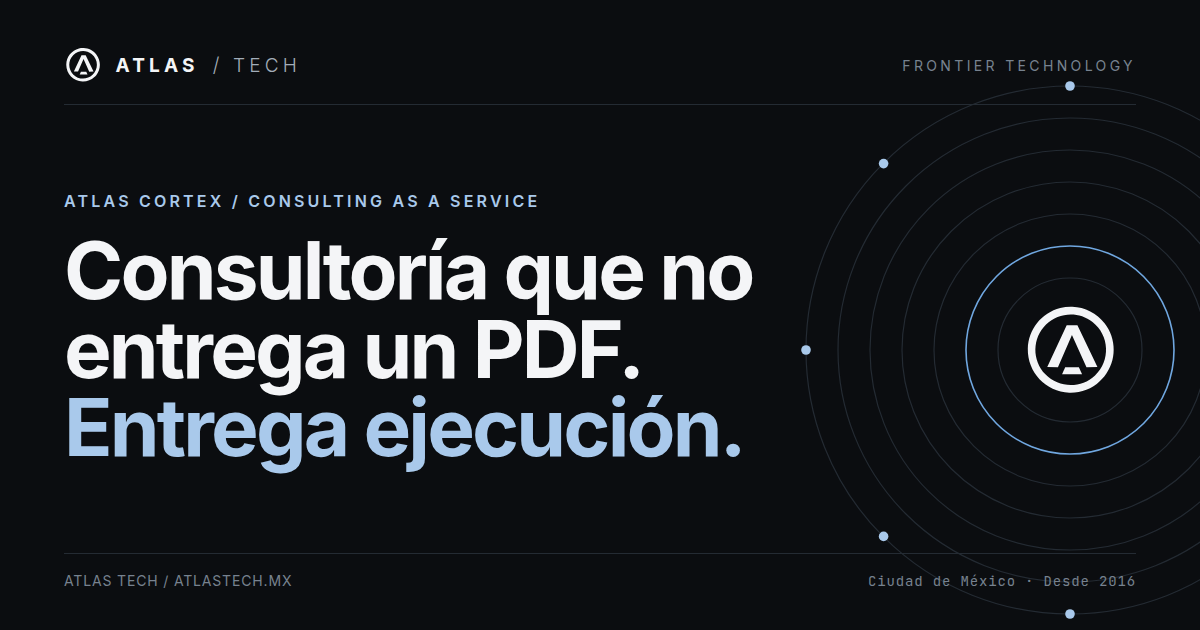
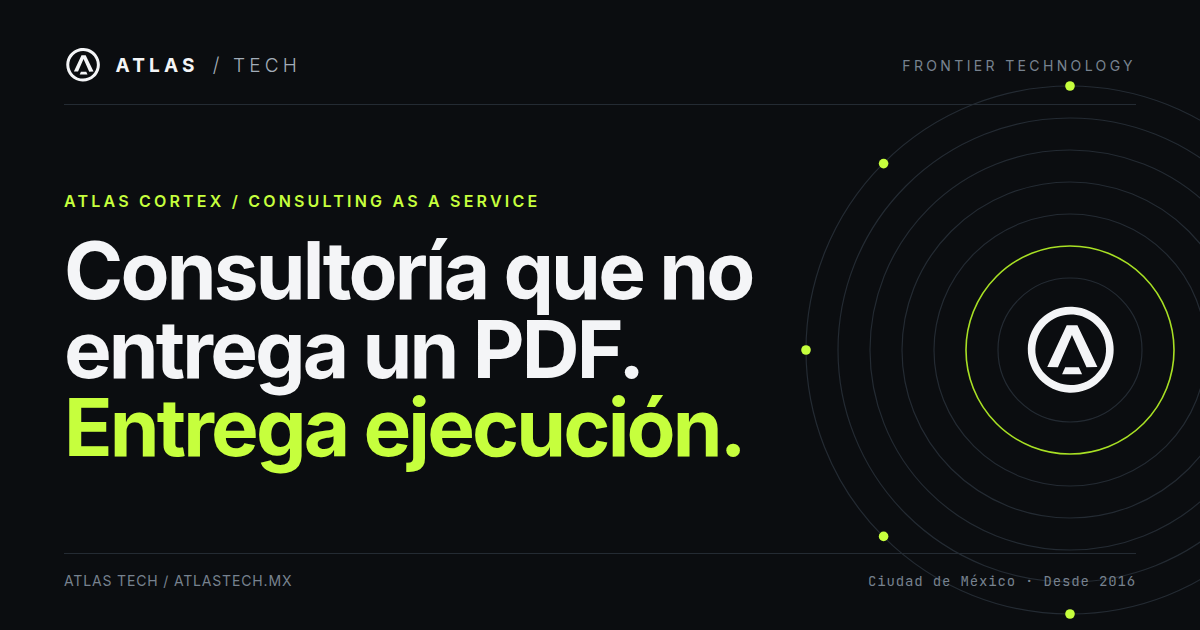
feat(brand): acento verde lima en lugar del azul hielo
Preferencia del dueño. Se conserva el resto de Atlas Noir (radio 0,
lockup, Inter 700, órbita). Imagen de vista previa regenerada.

Claude-Session: https://claude.ai/code/session_012jUjWb9yZdgB8nafPshS6D

diff --git a/atlasws/src/site/brand.test.ts b/atlasws/src/site/brand.test.ts
@@ -37,7 +37,7 @@ const siteSources = walk(path.join(root, "src/site"))
   .filter((f) => /\.(css|tsx|ts)$/.test(f) && !/\.test\./.test(f))
   .map((f) => [f, fs.readFileSync(f, "utf8")] as const);
 
-test("tokens de Atlas Noir: void, hielo como único acento y grises pizarra", () => {
+test("tokens de Atlas Noir con acento verde lima (preferencia del dueño sobre el azul hielo)", () => {
   const t = read("src/site/tokens.css").toLowerCase();
   [
     "--bg: #0b0d10",
@@ -47,21 +47,20 @@ test("tokens de Atlas Noir: void, hielo como único acento y grises pizarra", ()
     "--ink: #f4f5f7",
     "--muted: #a3adb9",
     "--dim: #77828f",
-    "--accent: #a9c9eb",
-    "--accent-2: #70a7e0",
+    "--accent: #c6ff3d",
+    "--accent-2: #a8e024",
     "--on-accent: #0b0d10",
     "--signal: #8fd9b6",
   ].forEach((decl) => expect(t).toContain(decl));
 });
 
-test("no queda lima, ni glow, ni esquinas redondeadas en el sitio", () => {
+test("no queda azul hielo, ni glow, ni esquinas redondeadas en el sitio", () => {
   siteSources.forEach(([f, src]) => {
-    expect([f, /c6ff3d|d6ff70/i.test(src)]).toEqual([f, false]);
+    expect([f, /a9c9eb|70a7e0|c3daf2|25364a/i.test(src)]).toEqual([f, false]);
     expect([f, /drop-shadow|box-shadow:\s*0 0/i.test(src)]).toEqual([f, false]);
     expect([f, /border-radius:\s*(999px|1[0-9]px|[4-9]px)/i.test(src)]).toEqual([f, false]);
   });
-  expect(read("public/favicon.svg")).not.toMatch(/c6ff3d/i);
-  expect(read("src/components/scrollbar/style.css")).not.toMatch(/c6ff3d/i);
+  expect(read("src/components/scrollbar/style.css")).not.toMatch(/a9c9eb/i);
 });
 
 test("color de tema Atlas Noir en HTML, manifest y SEO", () => {

diff --git a/atlasws/src/site/tokens.css b/atlasws/src/site/tokens.css
@@ -1,6 +1,7 @@
 /* ============================================================
  * Identidad Atlas Noir — tokens y base (guía de marca atlas-tech-brand).
- * Noir + un solo acento (azul hielo), reglas de 1px, radio 0, sin glow.
+ * Noir + un solo acento, reglas de 1px, radio 0, sin glow.
+ * El acento es verde lima por preferencia del dueño (la guía propone azul hielo).
  * Todo cuelga de .noir para no chocar con el CSS del template
  * ni con las páginas de detalle del portafolio.
  * ============================================================ */
@@ -14,9 +15,9 @@
   --ink: #f4f5f7;
   --muted: #a3adb9;
   --dim: #77828f;
-  --accent: #a9c9eb; /* ice: acento único */
-  --accent-2: #70a7e0; /* ice-2: anillo activo, link, focus */
-  --accent-deep: #25364a;
+  --accent: #c6ff3d; /* lima: acento único */
+  --accent-2: #a8e024; /* anillo activo, link, focus */
+  --accent-deep: #2a3a12;
   --on-accent: #0b0d10;
   --signal: #8fd9b6; /* solo tag "Validado" */
   --f-sans: "Inter", system-ui, -apple-system, "Segoe UI", Arial, sans-serif;
@@ -148,7 +149,7 @@
   border-color: var(--accent);
   color: var(--on-accent);
 }
-.noir .cta--primary:hover { background: #c3daf2; border-color: #c3daf2; color: var(--on-accent); }
+.noir .cta--primary:hover { background: #d6ff70; border-color: #d6ff70; color: var(--on-accent); }
 .noir .cta-row { display: flex; flex-wrap: wrap; gap: 12px; }
 
 /* ---------- StatusTag ---------- */

diff --git a/atlasws/src/site/components/OrbitMotif.tsx b/atlasws/src/site/components/OrbitMotif.tsx
@@ -1,7 +1,7 @@
 import React from "react";
 
 // Motivo único de la marca: el círculo del logo expandido en anillos concéntricos,
-// un anillo activo en hielo y nodos sobre el anillo exterior. Decorativo.
+// un anillo activo en lima y nodos sobre el anillo exterior. Decorativo.
 // La rotación lenta de los nodos se apaga con prefers-reduced-motion.
 const RINGS = [330, 290, 250, 210, 170, 90];
 const NODES: [number, number][] = [
@@ -30,8 +30,8 @@ const OrbitMotif: React.FC<{ size?: number; className?: string }> = ({ size = 42
         <circle key={r} cx="350" cy="350" r={r} />
       ))}
     </g>
-    <circle cx="350" cy="350" r="130" stroke="#70A7E0" strokeWidth="2" />
-    <g className="orbit__ring" fill="#A9C9EB">
+    <circle cx="350" cy="350" r="130" stroke="#A8E024" strokeWidth="2" />
+    <g className="orbit__ring" fill="#C6FF3D">
       {NODES.map(([x, y]) => (
         <circle key={`${x}-${y}`} cx={x} cy={y} r="6" />
       ))}

diff --git a/atlasws/src/components/scrollbar/style.css b/atlasws/src/components/scrollbar/style.css
@@ -19,8 +19,8 @@ ul.smothscroll a {
     border: 1px solid #303741;
 }
 ul.smothscroll a:hover {
-    background-color: #A9C9EB;
-    border-color: #A9C9EB;
+    background-color: #C6FF3D;
+    border-color: #C6FF3D;
     color: #0B0D10;
 }
 
